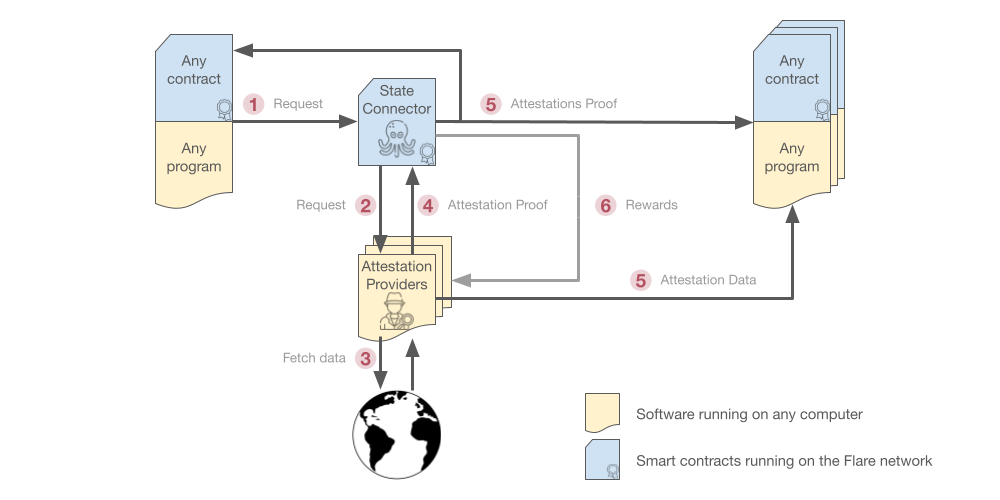
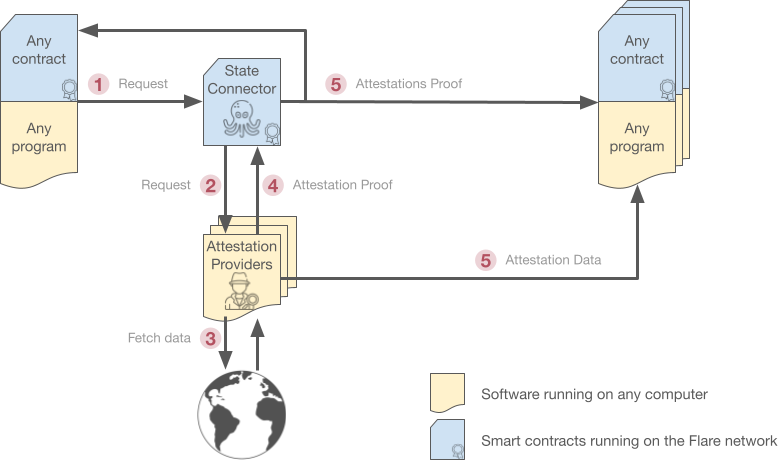
Remove WIP sections from State Connector page

Changed region(s): [[0.0, 0.0, 0.8946, 1.0], [0.5553, 0.7609, 1.0, 1.0]]

diff --git a/docs/tech/state-connector.md b/docs/tech/state-connector.md
@@ -6,8 +6,7 @@ The **State Connector** is a smart contract running on the Flare network that al
 It does so in a **decentralized manner** (no single party is in control of the process) and **securely** (it takes a lot of effort to disrupt the process).
 
 This is accomplished by using a set of **independent Attestation Providers** which fetch the required information from the world and deliver it to the Flare network.
-The State Connector smart contract then checks if there is **enough consensus** among the received answers.
-If that is the case, it **publishes the results** and **rewards the appropriate providers**.
+The State Connector smart contract then checks if there is **enough consensus** among the received answers and **publishes the results** if so.
 
 <figure markdown>
   ![The State Connector](SC-intro.png){ loading=lazy .allow-zoom width=500px }
@@ -36,11 +35,10 @@ The answers, though, might contain any kind of additional data attached, like th
 
 Requests must adhere to one of the **available request types**, which have been designed to be **strictly decidable**, i.e., the answers are objective and cannot be argued.
 Otherwise, queries like "What is the weather like in Paris?" would have a hard time reaching consensus among the different Attestation Providers.
-Section [Adding New Attestation Types](#adding-new-attestation-types) below contains more details.
 
 ??? example "Making a request (for App developers)"
 
-    Make your requests using the `requestAttestations` method (#2) of the [StateConnector contract](https://songbird-explorer.flare.network/address/0x3A1b3220527aBA427d1e13e4b4c48c31460B4d91/write-contract):
+    Make your requests using the `requestAttestations` method (#2) of the [StateConnector contract](https://songbird-explorer.flare.network/address/0x3A1b3220527aBA427d1e13e4b4c48c31460B4d91/write-contract){ target=_blank }:
 
     ```solidity
     function requestAttestations(
@@ -49,7 +47,7 @@ Section [Adding New Attestation Types](#adding-new-attestation-types) below cont
     ```
 
     The `requestAttestations` method has a single parameter, `data`, which is a byte array with a content that depends on the desired **request type**.
-    You can learn how to build this array in the [state-connector-attestation-types repository](https://github.com/flare-foundation/state-connector-attestation-types){target=_blank}.
+    You can learn how to build this array in the [state-connector-attestation-types repository](https://github.com/flare-foundation/state-connector-attestation-types){ target=_blank }.
 
 ### 2. Request forwarding
 
@@ -64,7 +62,6 @@ E.g., retrieving data from another blockchain or public API.
 
 Keep in mind that Attestation Providers are **not controlled by Flare** in any way.
 Anybody can listen to the request events and provide answers using any combination of hardware, software and code they see fit.
-If the answer adheres to the protocol and it matches the majority consensus, such providers will be rewarded.
 
 ### 4. Attestation
 
@@ -101,13 +98,7 @@ Otherwise, no consensus is achieved: requests remain unanswered and must be issu
 
     More information on how to retrieve a particular answer in the [State Connector contract source code](https://gitlab.com/flarenetwork/flare-smart-contracts/-/blob/master/contracts/genesis/implementation/StateConnector.sol#L49){ target=_blank }.
 
-    As shown below, multiple answers are actually packed into a single Merkle root. The [Attestation Proof Unpacking](#proof-unpacking) section explains how to retrieve an individual answer.
-
-### 6. Rewards
-
-All Attestation Providers that submitted **the answer agreed by the majority** are rewarded.
-
-==The exact mechanism is still being designed (XXX).==
+    As shown below, multiple answers are actually packed into a single Merkle root. The [Attestation Packing](#attestation-packing) section explains how to retrieve an individual answer.
 
 ## Attestation Protocols
 
@@ -198,7 +189,7 @@ Additional points worth noting:
     1. In the attestation round after you made the request (3 attestation phases, so from 3 to 4.5 minutes) the **Attestation Proof** for the round should be available in the State Connector.
         Retrieve it using method `getAttestation` (#7) of the [StateConnector contract](https://songbird-explorer.flare.network/address/0x3A1b3220527aBA427d1e13e4b4c48c31460B4d91/read-contract){ target=_blank }.
 
-    2. **Select any Attestation Provider** you want (==XXX Method TBD==) and use the [Proof API](https://github.com/flare-foundation/attestation-client/blob/main/docs/verfication/proof-api.md){ target=_blank } path `api/proof/votes-for-round/{roundId}` to **retrieve all data for the round**.
+    2. **Select any Attestation Provider** you want and use the [Proof API](https://github.com/flare-foundation/attestation-client/blob/main/docs/verfication/proof-api.md){ target=_blank } path `api/proof/votes-for-round/{roundId}` to **retrieve all data for the round**.
 
     3. **Rebuild the Merkle tree** for the retrieved data.
     There are tools to help you, like the [MerkleTree.ts](https://github.com/flare-foundation/attestation-client/blob/main/lib/utils/MerkleTree.ts){ target=_blank } library.
@@ -212,49 +203,3 @@ Additional points worth noting:
     If it is not present, your request was deemed **invalid** (e.g. the queried transaction was not present).
 
         Otherwise, your request is valid and you can find any extra information about it in the data array.
-
-## Security
-
-### Branching Protocol
-
-> The State Connector branching protocol protects Flare against incorrect interpretation of real-world events, _proactively_, such that there are never any rollbacks on the Flare blockchain state. Instead of having rollbacks, contention on state correctness is handled via automatic state branching into a correct and incorrect path. The security assumption is that if you as an independent node operator are following along with the correct real-world state, then you will always end up on the correct branch of the blockchain state.
->
-> The minimum requirement to confirm the existence and validity of a blockchain transaction is for it to be confirmed by a majority of the default set of Attestation Providers.
->
-> Anyone may also operate their own _local_ attestation provider(s) without any capital requirement. Every Flare node operator, no matter how prominently they feature in the overall network, defines which local attestation provider(s) they wish to use for the State Connector branching protocol.
-
-    A Flare node will only pass a State Connector vote if both the default set and their locally-defined set of attestation providers pass the vote:
-
-    * If a Flare node's locally-defined set of attestation providers disagrees with the vote made by the default set, then:
-      1. The Flare node will automatically create a backup of the blockchain state at the last point that it will have in common with the default set.
-      2. The Flare node will then proceed along the branch that it locally believes is correct.
-    * Else if the default set fails to pass a vote, then:
-      1. No branching occurs.
-
-<figure markdown>
-  ![Default and Local attestation providers](SC-local-AP.png){ loading=lazy }
-  <figcaption>Default and Local attestation providers.</figcaption>
-</figure>
-
-<figure markdown>
-  ![Branching](SC-branching.png){ loading=lazy }
-  <figcaption>Branching.</figcaption>
-</figure>
-
-<figure markdown>
-  ![Branching resolution 1](SC-branching-resolution-1.png){ loading=lazy }
-  <figcaption>Branching resolution 1.</figcaption>
-</figure>
-
-<figure markdown>
-  ![Branching resolution 2](SC-branching-resolution-2.png){ loading=lazy }
-  <figcaption>Branching resolution 2.</figcaption>
-</figure>
-
-## Becoming an Attestation Provider
-
-> Anyone may operate as an attestation provider without any capital requirement, but a default incentivized set is used as the minimal requirement for passing a vote about the events in the previous set.
-
-## Adding New Attestation Types
-
-> New real-world event-type integrations are introduced to the State Connector via acceptance by the default attestation providers, and without requiring any changes to the core voting or branching protocols described above. This enables rapid deployment of new use-cases without any validator-level code changes.
